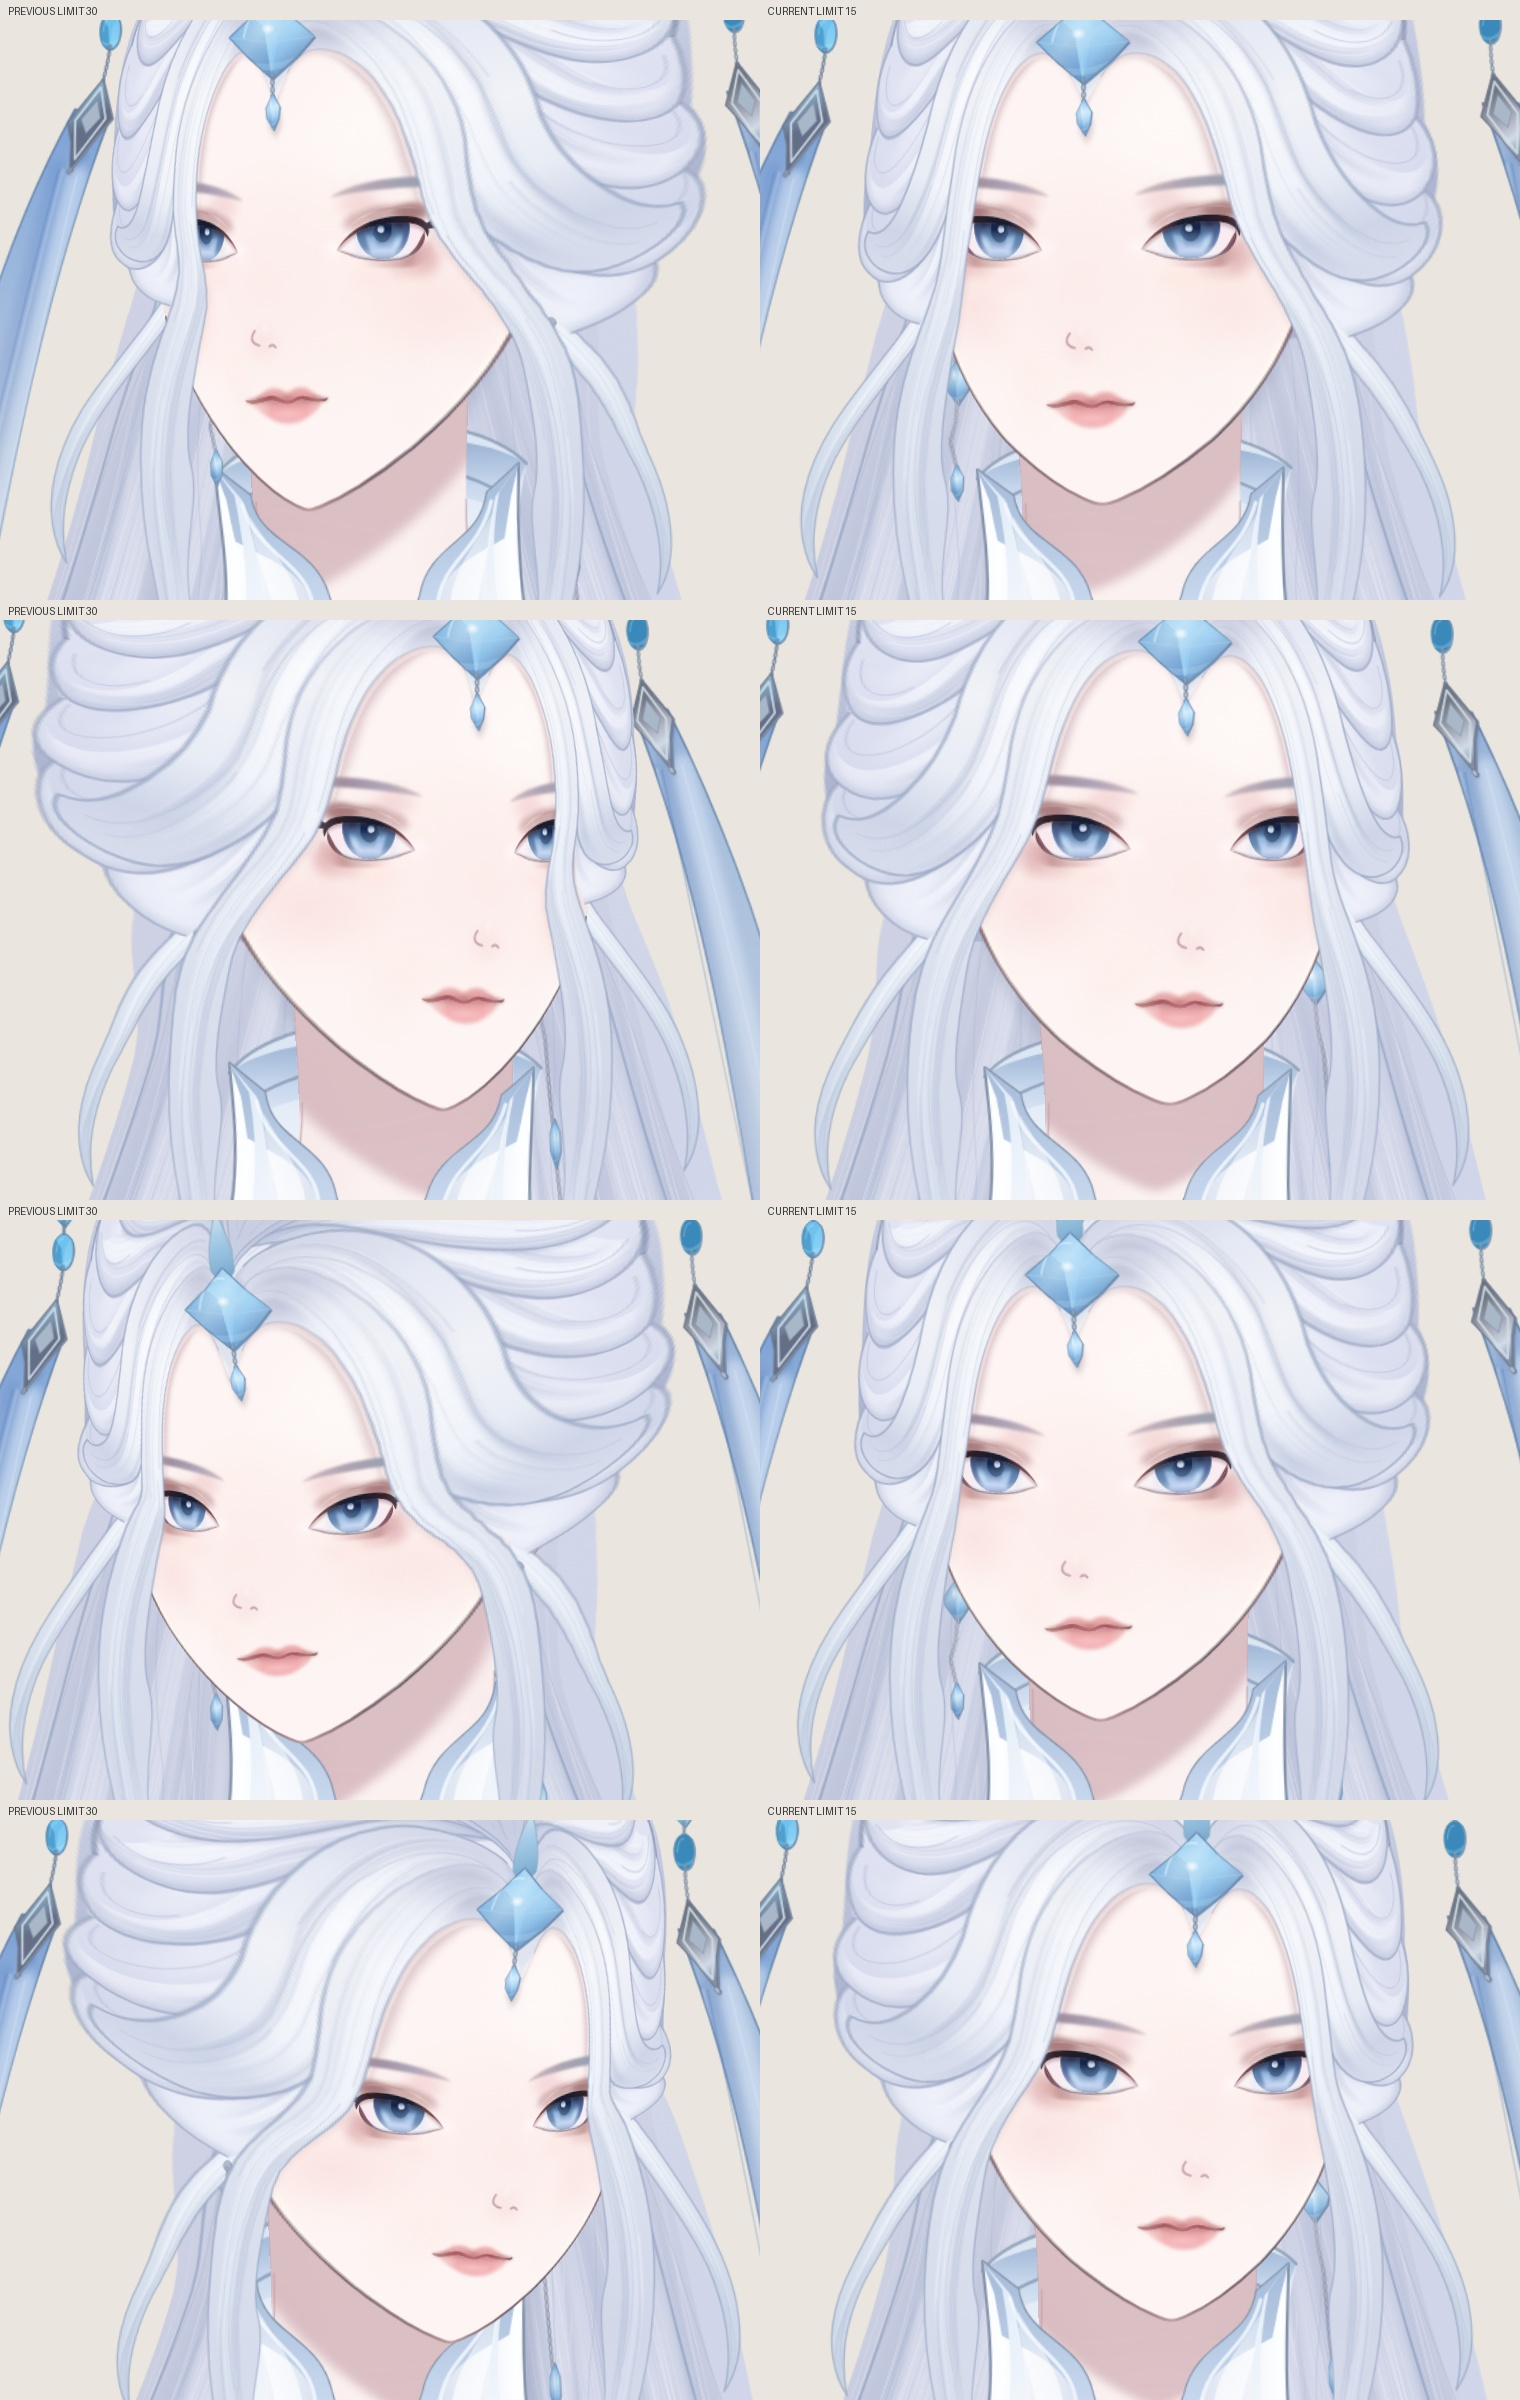
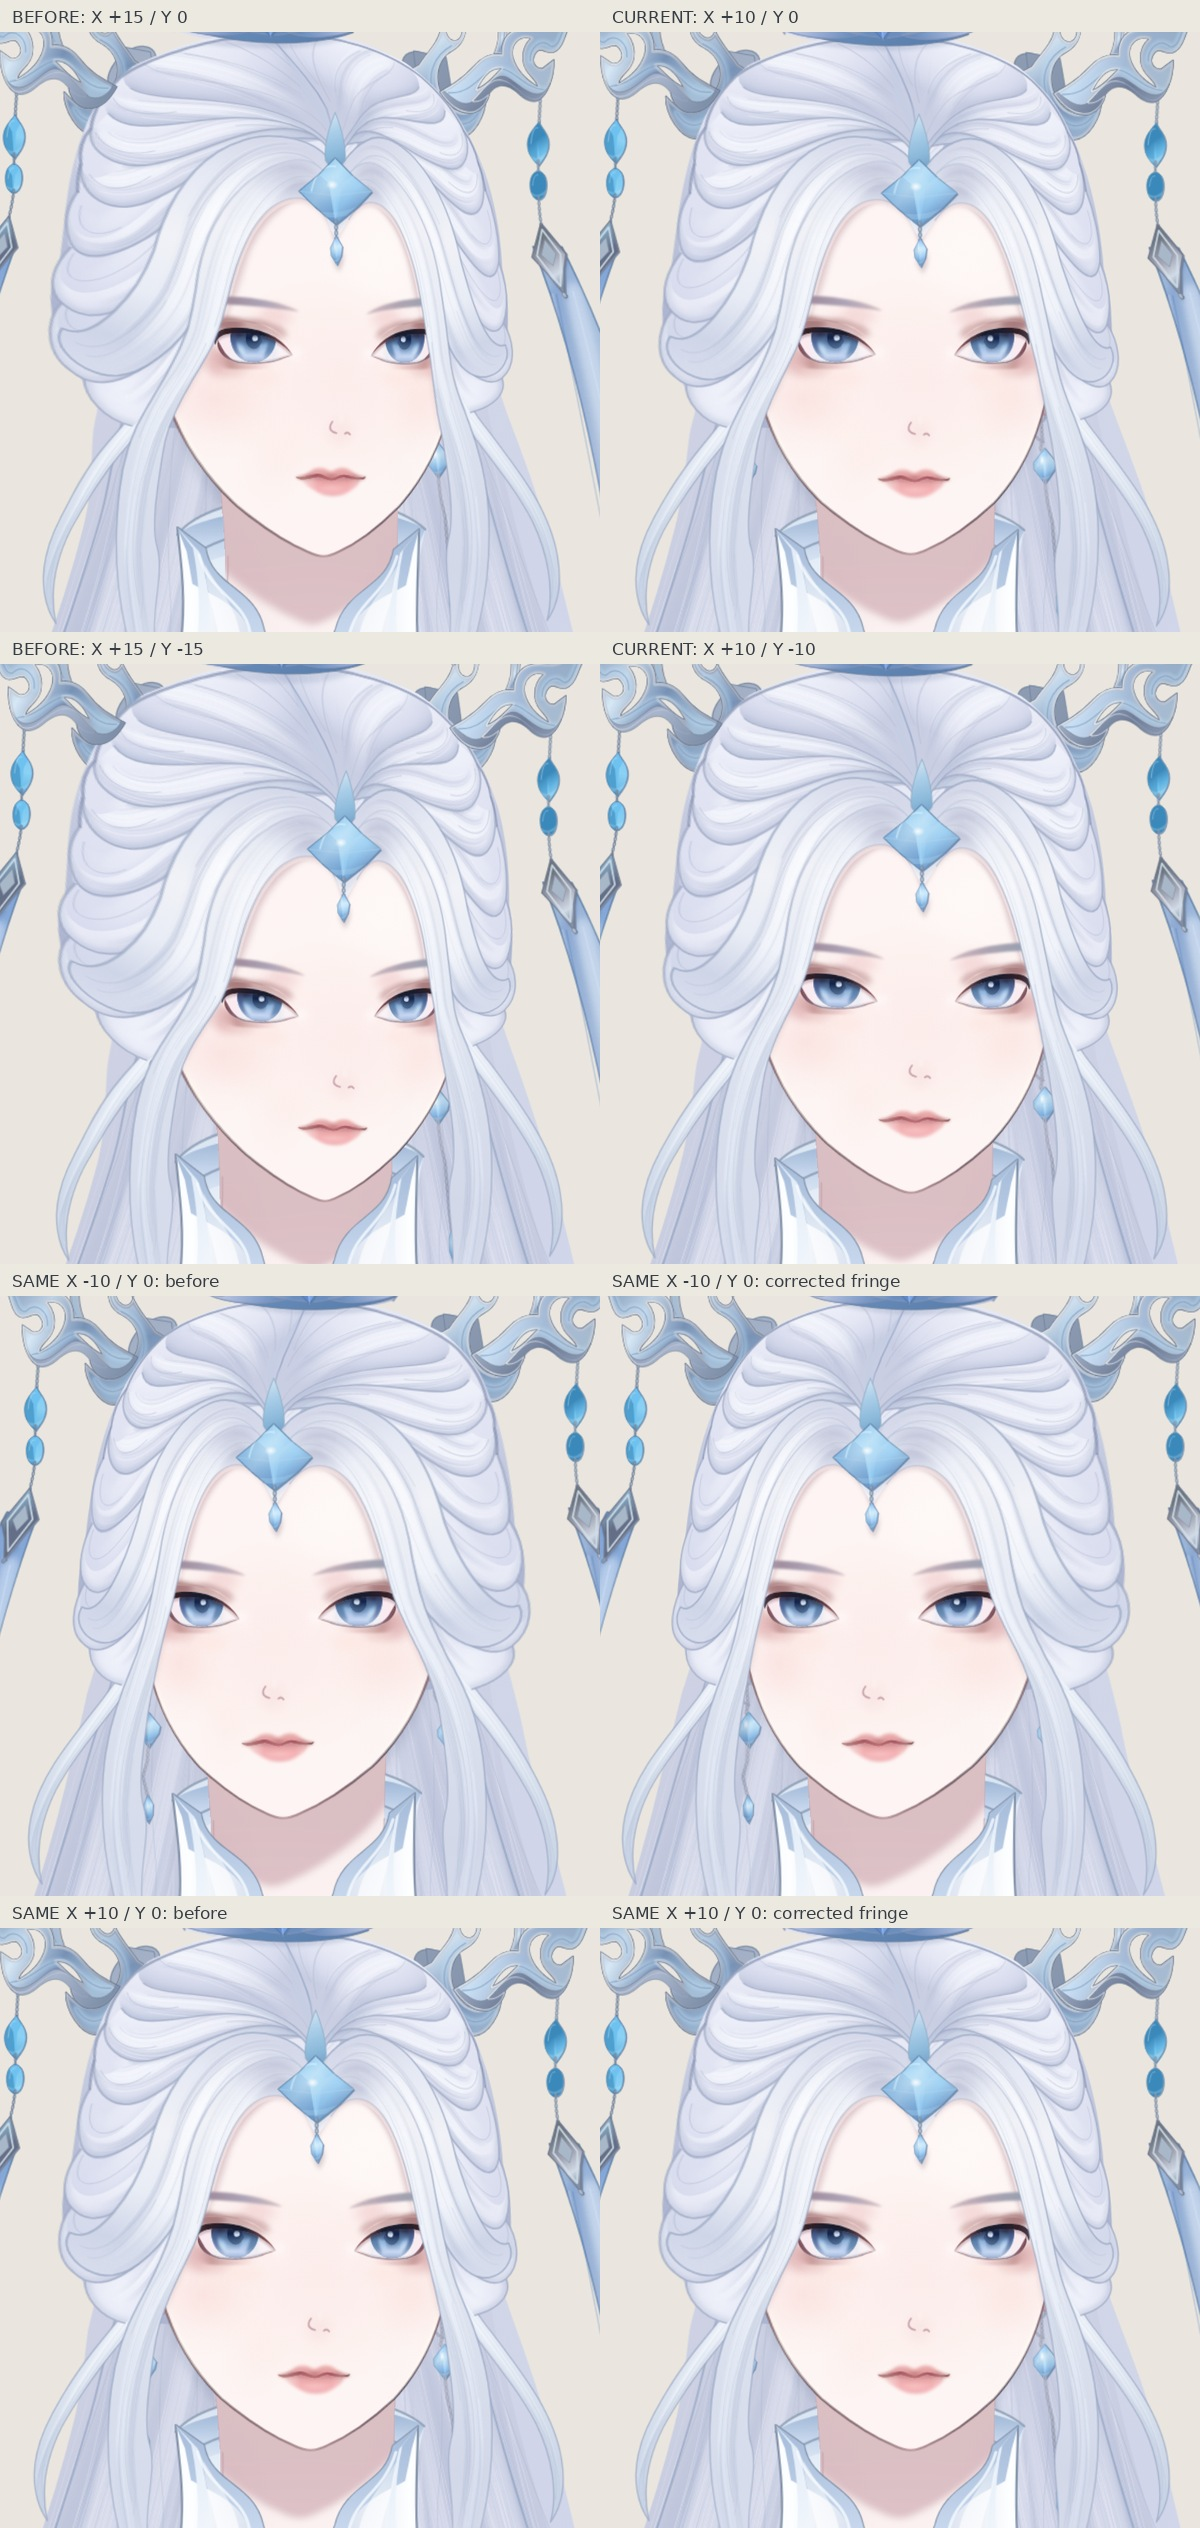
Refine Jianma subtle head turns and align fringe with the face

diff --git a/rigging/jianma2d-head/index.html b/rigging/jianma2d-head/index.html
@@ -2,7 +2,7 @@
 <html lang="zh-CN"><head><meta charset="utf-8"><meta name="viewport" content="width=device-width,initial-scale=1"><title>剑妈 · 头部九轴研究</title><link rel="stylesheet" href="style.css"></head>
 <body><header><div><p class="eyebrow">ASTRA / RIGGING STUDIES · 01</p><h1>剑妈<span>头部九轴</span></h1></div><a href="README.md">制作笔记 ↗</a></header>
 <main><section class="stage-card" aria-label="角色变形预览"><div class="stage-top"><span id="pose-label">正面 · 原始姿态</span><span id="status" role="status">正在载入分层原画…</span></div><div class="viewport"><canvas id="stage" aria-label="剑妈头部九轴实时预览"></canvas><svg id="guides" aria-hidden="true"></svg></div><div class="stage-bottom"><span>拖动右侧圆点，观察整个头部的联动</span><button id="play" disabled>连续巡览</button></div></section>
-<aside><section class="panel"><div class="section-title"><h2>方向与边界</h2><button id="reset" disabled>回到原画</button></div><p class="muted">X / Y 最大幅度为 ±15，以轻微转头表达方向。</p>
+<aside><section class="panel"><div class="section-title"><h2>方向与边界</h2><button id="reset" disabled>回到原画</button></div><p class="muted">X / Y 最大幅度为 ±10，轻微转头，只露出少量侧后发。</p>
 <div class="direction-controls"><div id="pad" role="application" tabindex="0" aria-label="转头方向，方向键调节左右及俯仰"><span class="pad-up">抬头</span><span class="pad-down">低头</span><span class="pad-left">左</span><span class="pad-right">右</span><i id="dot"></i></div><div id="nine" class="nine" aria-label="九个边界姿态"></div></div>
 <div id="sliders"></div></section>
 <section class="panel"><h2>观察整体变形</h2><label class="check"><input id="physics" type="checkbox" checked>头发与配饰惯性</label><label class="check"><input id="grid" type="checkbox">显示脸部曲面与中线</label><label class="check"><input id="bare" type="checkbox">隐藏头发与头饰，检查脸型</label><label class="check"><input id="closeup" type="checkbox">面部近景</label><p class="muted footnote">发根随头转动，长发逐渐过渡到肩部。五官保留独立关键形，头饰有透视，刘海和发梢带轻微阻尼摆动，分缝保持固定。</p></section>
